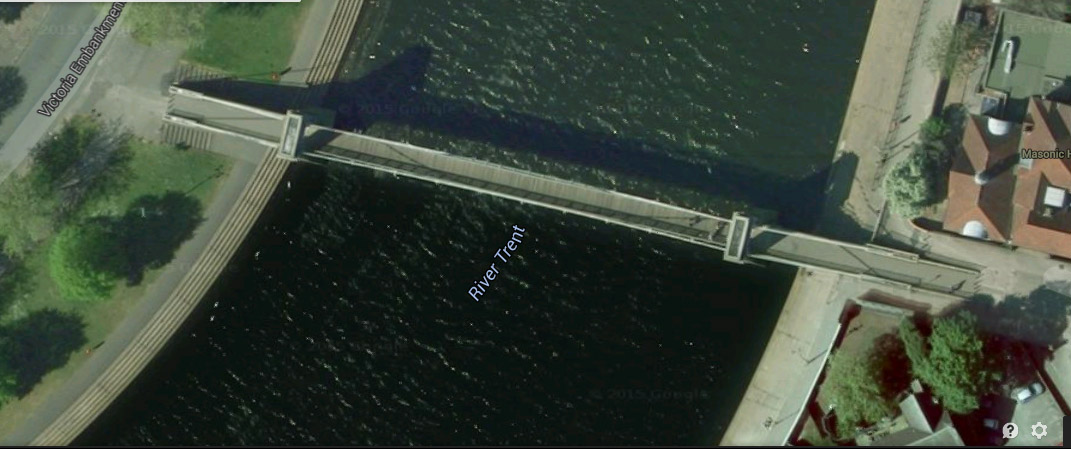
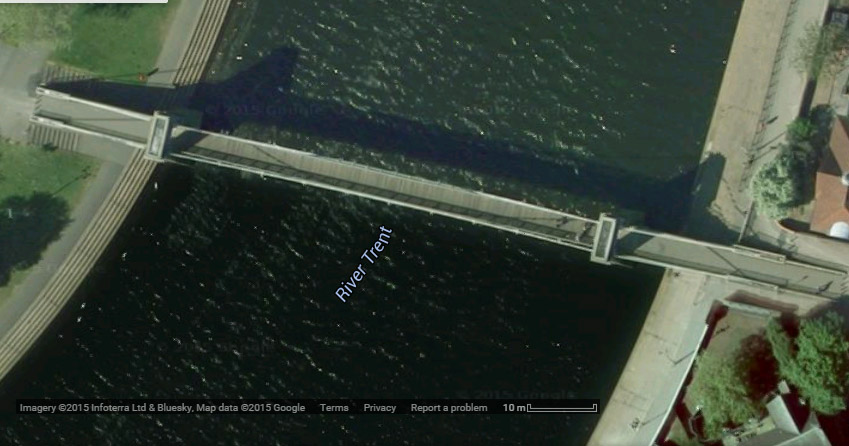
prsentation finalised

diff --git a/H24VEP_Bridge/H24VEP_Bridge.tex b/H24VEP_Bridge/H24VEP_Bridge.tex
@@ -32,7 +32,6 @@
 %\renewcommand{\baselinestretch}{1.2} %line spacing
 %{\setstretch{1.0}\color{blue} text bla bla } for section strech
 \renewcommand{\footnotesize}{\scriptsize} %change footnote sizes
-\newcommand{\MatlabRef}{\footnote{History of changes at \url{https://github.com/DfAC/TEQCSPEC}.}}
 \newcommand{\thisDocRef}{\footnote{History of changes at \url{https://github.com/DfAC/TeachingSlides/}.}}
 %\usepackage{lipsum} % for dummy text only
 
@@ -44,9 +43,10 @@
 %%%%%%%%%%%%%%%%%%%%%%%%%%%%%%%%%%%%%%%%%%%%%%%%%%%%%%%%%%%%%%%%%%%%%%%%%%%%%%
 %%%%%%%%%%%%%%%%%%%%%%%%%%%%%%%%%%%%%%%%%%%%%%%%%%%%%%%%%%%%%%%%%%%%%%%%%%%%%%
 \title[H24VEP]{H24VEP Project 3}
-\subtitle{Bridge Monitoring}
+\subtitle{Bridge Monitoring Preparation\thisDocRef}
 
-\author{LKB/SI}
+\author{LKB/SI\footnote{Based on presentation given by the last year MSc cohort. All Google Map screen-shots have been attributed as per guideline. All graphics copyrights belongs to their respective owners.\\}}
+%\newline to prevent footnote cut off, otherwise use \hskip1.2cm
 \institute{NGI}
 \date{\today}
 
@@ -70,22 +70,22 @@ The aim of the project is to characterise bridge movement using precise geodetic
 To do so we will:
 
 \begin{itemize}
-	\item Identify the best layout of the sensors on the bridge;
-	\item Decide the details of the trial next week;
-	\item Analyse measurements made through different sensors;
+	\item Decide where do put sensors on the bridge;
+	\item Decide how are you going to do it;
+	\item Analyse measurements from multiple sensors;
 	\item Examine the bridge's response under different excitation types;
-	\item Compare and contrast results;
-	\item Find the type of excitation which best shows the differences between equipment outputs.
+	\item Compare and contrast the results;
+	\item Tell the story.
 \end{itemize}
 \end{frame}
 
 \begin{frame}{Wilford Pedestrian Bridge}
 Wilford Pedestrian Bridge is single span suspension bridge. Spans the River Trent; 69 m long and 3.7 m wide.
-
-	\includegraphics[height=.4\textheight]{pic/Bridge01.jpg}
+	%\begin{center}
+	\includegraphics[width=.6\textwidth]{pic/Bridge01.jpg}
+	\includegraphics[width=.55\textwidth]{pic/Bridge02.jpg} 
 	\captionof{figure}{Wilford Pedestrian Bridge} %to make images on top of each other
-		\centering
-	\includegraphics[width=.4\textwidth]{pic/Bridge02.jpg} 
+	%\end{center}
 	%\includegraphics[width=.4\textwidth]{pic/Bridge02.jpg} 
 
 \end{frame}
@@ -95,18 +95,24 @@ Wilford Pedestrian Bridge is single span suspension bridge. Spans the River Tren
 We plan to use following equipment on the bridge:
 
 \begin{itemize}
-	\item Leica GNSS receiver
-	\item Leica Robotic Total Station (RTS)
-	\item Novatel SPAN IMU sensor
-	\item Leica Nivel 210 inclinometer
+	\item Leica GNSS receiver x5
+	\item Leica Robotic Total Station (RTS) x2
+	\item Novatel SPAN IMU sensor x1
+	\item Leica Nivel 210 inclinometer x1
 \end{itemize}
 
 \end{frame}
 
+
+% Time scale
+% bridge location
+
 \begin{frame}{Plan}%{Daily repetition}
 \begin{itemize}
-	\item What you want to do?
-	\item How you want to do it?
+	\item What equipment are you using? 
+	\item Where are you placing it?
+	\item	How are you going to time synchronise equipment?
+	\item What about coordinate system?
 	\item How many ppl you have?
 	\item Who is responsible for what?
 	\item How can we prevent mistakes? How can we prevent accidents?
@@ -114,24 +120,26 @@ We plan to use following equipment on the bridge:
 \end{frame}
 
 \begin{frame}{H\&S}%{Daily repetition}
-	%\centering
-	\includegraphics[width=.7\textwidth]{pic/rainbow.jpg}
+\begin{center}
+	\includegraphics[width=.8\textwidth]{pic/rainbow.jpg}
 	\captionof{figure}{Have you got risk assessment?} %to make images on top of each other
+\end{center}
 \end{frame}
 
 
 \section{Implementation}
 
 \begin{frame}{Bridge layout}%{Daily repetition}
-	\centering
+	\begin{center}
 	\includegraphics[height=.6\textheight]{pic/BridgeBare.jpg}
 	\captionof{figure}{Top view} %to make images on top of each other
+	\end{center}
 \end{frame}
 
 \begin{frame}{Sensors layout}%{Daily repetition}
 	\centering
 	\includegraphics[height=.7\textheight]{pic/layout.jpg}
-	\captionof{figure}{Location of the sensors} %to make images on top of each other
+	\captionof{figure}{Location of the sensors from last year} %to make images on top of each other
 
 \end{frame}
 
@@ -140,7 +148,7 @@ We plan to use following equipment on the bridge:
 
 	\centering
 	\includegraphics[height=.6\textheight]{pic/excitation.jpg}
-	\captionof{figure}{Excitation example from last year} %to make images on top of each other
+	\captionof{figure}{Example of excitations from last year trial} %to make images on top of each other
 	%\captionof{figure}{Example of visualisation}
 \end{frame}
 
@@ -149,12 +157,18 @@ We plan to use following equipment on the bridge:
 
 
 	\begin{frame}{Summary}
-	%For older versions please refer to the GitHub site.
+	\begin{itemize}
+		\item Decide on your equipment.
+		\item Decide on your activities.
+		\item Select Time Keeper and Note Keeper.
+		\item Agree on roles (responsibilities) before next Monday.
+		\item Submit all relevant H\&S forms before Thursday.
+	\end{itemize}
 	\end{frame}
 
 
 %Final slide
 \setbeamercolor{background canvas}{bg=blueBgd!60}
-\plain{Good luck}
+\plain{Good luck\thisDocRef}
 
 \end{document}
